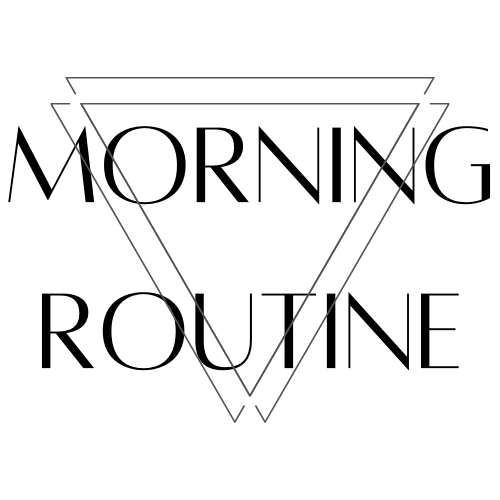
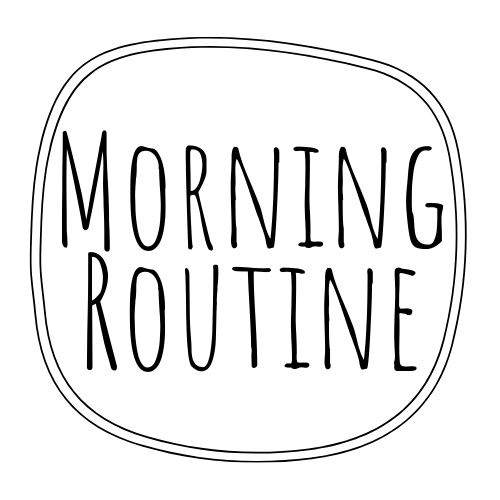
部分テンプレート2の挿入

diff --git a/app/assets/stylesheets/application.css b/app/assets/stylesheets/application.css
@@ -63,10 +63,17 @@ li {
 header {
 	font-size: x-small;
 	font-weight: bold;
-	border-bottom: double 10px black;
+	border-bottom: double 5px black;
 }
 
 .nav {
 	display: flex;
 	justify-content: space-around;
+}
+
+.phrase {
+	padding: 10% 0 0 10%;
+	font-size: 60px;
+	font-weight: bold;
+	font-family: 'Amatic SC', cursive;
 }
